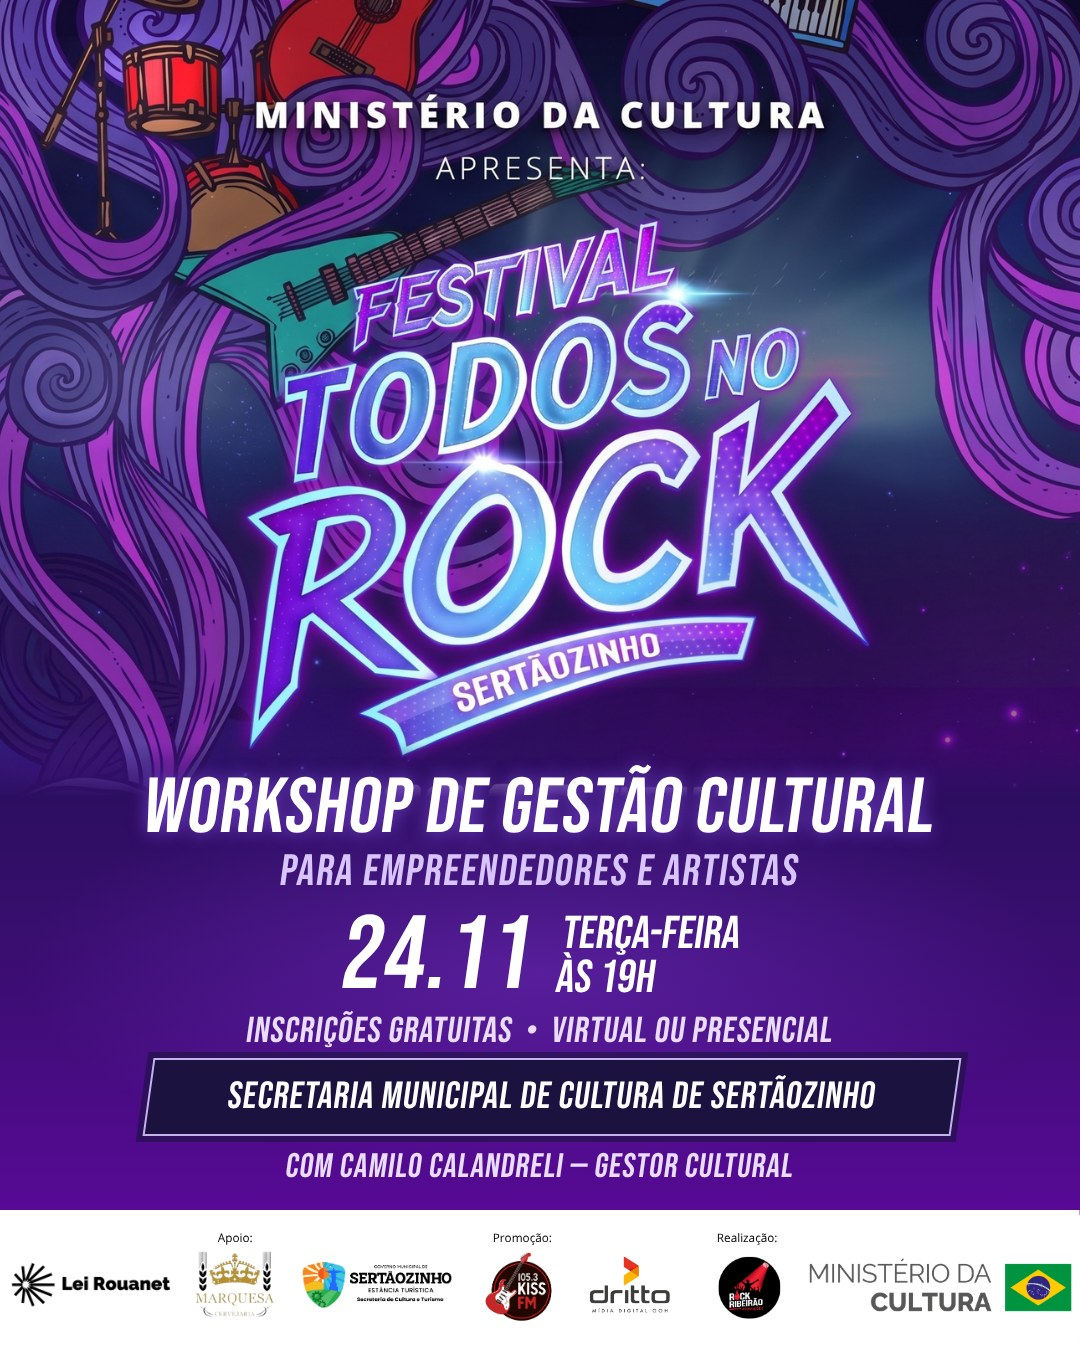
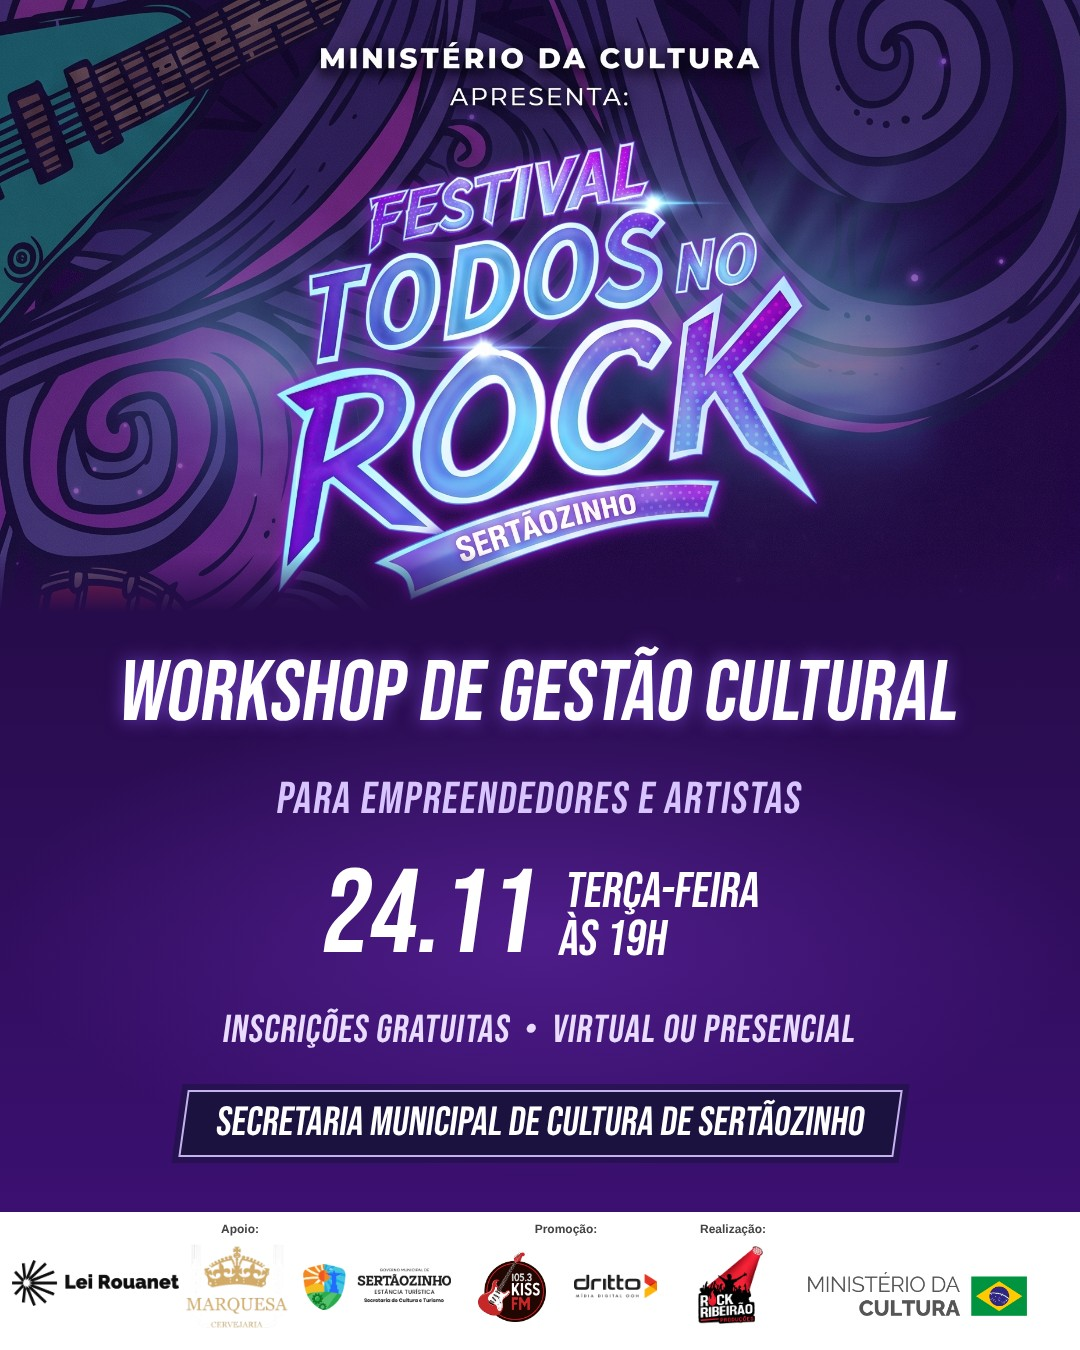
Workshop: remove nome do Camilo do texto e da arte
Claude-Session: https://claude.ai/code/session_01LmnC41b4ZNegAyrbJa5qXQ

diff --git a/client/src/pages/TodosNoRock.tsx b/client/src/pages/TodosNoRock.tsx
@@ -204,7 +204,7 @@ export default function TodosNoRock() {
                 <span className="badge b-ink">19h</span>
                 <span className="badge" style={{ background: MINT, color: "#000" }}>Inscrições gratuitas</span>
               </div>
-              <p className="body" style={{ color: "#ece6fb" }}>Participe virtualmente ou presencialmente na Secretaria Municipal de Cultura de Sertãozinho, com Camilo Calandreli, gestor cultural.</p>
+              <p className="body" style={{ color: "#ece6fb" }}>Participe virtualmente ou presencialmente na Secretaria Municipal de Cultura de Sertãozinho.</p>
               <WorkshopForm />
             </div>
             <div style={{ display: "flex", flexDirection: "column", gap: 28, alignItems: "center" }}>
